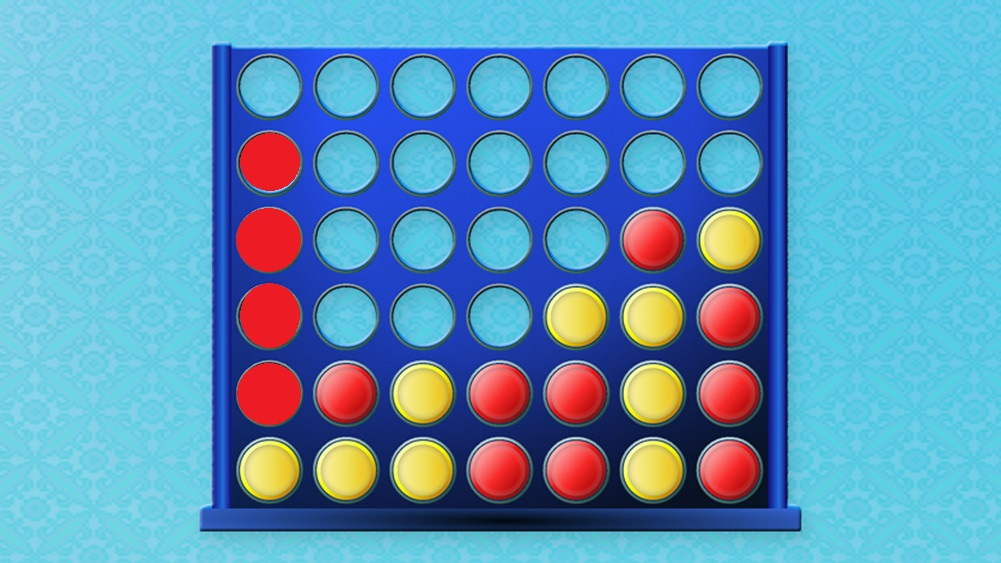
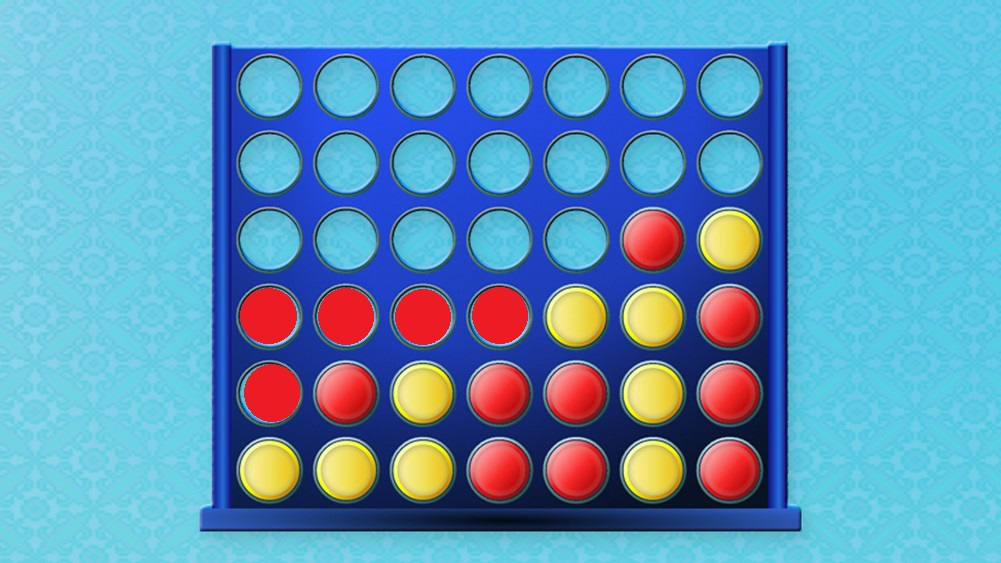
Horizontale und vertikale Gewinnererkennung

Changed region(s): [[0.2168, 0.2114, 0.5265, 0.6643], [0.2478, 0.7247, 0.3097, 0.7549], [0.2168, 0.6643, 0.2478, 0.7247]]

diff --git a/CV.py b/CV.py
@@ -1,5 +1,5 @@
 import cv2 as cv
-import sys
+import ctypes
 import numpy as np
 
 # connection to webcam
@@ -40,6 +40,7 @@ def main():
         for i in circles[0, :]:
             z=z+1
             center = (i[0], i[1])
+            radius = i[2]
 
             # detect color of center and add them to array
             color = img[(center[1], center[0])]
@@ -60,157 +61,116 @@ def main():
             my_variable_array.append(myvariable)
 
             # draw circle center in pink
-            #cv.circle(img, center, 1, (255, 0, 255), 2)
+            # cv.circle(img, center, 1, (255, 0, 255), 2)
 
             # draw circle outline in pink
-            #radius = i[2]
-            #cv.circle(img, center, radius, (255, 0, 255), 3)
+            radius = i[2]
+            # cv.circle(img, center, radius, (255, 0, 255), 3)
 
         # sort array
         my_variable_array.sort(reverse=False)
         test = (split(my_variable_array, 6))
 
         # sort columns, one arrays for single column
+        # colum1
         test[0].sort(key=lambda x: x[1])
         spalte1 = test[0]
+        # column2
         test[1].sort(key=lambda x: x[1])
         spalte2 = test[1]
+        # column3
         test[2].sort(key=lambda x: x[1])
         spalte3 = test[2]
+        # column4
         test[3].sort(key=lambda x: x[1])
         spalte4 = test[3]
+        # column5
         test[4].sort(key=lambda x: x[1])
         spalte5 = test[4]
+        # column 6
         test[5].sort(key=lambda x: x[1])
         spalte6 = test[5]
+        # column 7
         test[6].sort(key=lambda x: x[1])
         spalte7 = test[6]
+
 
         #where is a free spot
         #column 1
         print("Spalte 1:", spalte1)
-        for myvariable in spalte1:
-            if myvariable[2] == "Hintergrund":
-                last = myvariable
-            else:
-                print("Letzte freie Stelle in Spalte 1:", last)
-                # draw circle center
-                center = (last[0], last[1])
-                cv.circle(img, center, 1, (0, 0, 0), 2)
-                # draw circle outline
-                radius = i[2]
-                cv.circle(img, center, radius, (0, 0, 0), 3)
-                break
-
+        lastfree("1", spalte1, img, radius)
         # column 2
         print("Spalte 2:", spalte2)
-        for myvariable in spalte2:
-            if myvariable[2] == "Hintergrund":
-                last = myvariable
-            else:
-                print("Letzte freie Stelle in Spalte 2:", last)
-                # draw circle center
-                center = (last[0], last[1])
-                cv.circle(img, center, 1, (0, 0, 0), 2)
-                # draw circle outline
-                radius = i[2]
-                cv.circle(img, center, radius, (0, 0, 0), 3)
-                break
-
+        lastfree("2", spalte2, img, radius)
         # column 3
         print("Spalte 3:", spalte3)
-        for myvariable in spalte3:
-            if myvariable[2] == "Hintergrund":
-                last = myvariable
-            else:
-                print("Letzte freie Stelle in Spalte 3:", last)
-                # draw circle center
-                center = (last[0], last[1])
-                cv.circle(img, center, 1, (0, 0, 0), 2)
-                # draw circle outline
-                radius = i[2]
-                cv.circle(img, center, radius, (0, 0, 0), 3)
-                break
-
+        lastfree("3", spalte3, img, radius)
         # column 4
         print("Spalte 4:", spalte4)
-        for myvariable in spalte4:
-            if myvariable[2] == "Hintergrund":
-                last = myvariable
-            else:
-                print("Letzte freie Stelle in Spalte 4:", last)
-                # draw circle center
-                center = (last[0], last[1])
-                cv.circle(img, center, 1, (0, 0, 0), 2)
-                # draw circle outline
-                radius = i[2]
-                cv.circle(img, center, radius, (0, 0, 0), 3)
-                break
-
+        lastfree("4", spalte4, img, radius)
         # column 5
         print("Spalte 5:", spalte5)
-        for myvariable in spalte5:
-            if myvariable[2] == "Hintergrund":
-                last = myvariable
-            else:
-                print("Letzte freie Stelle in Spalte 5:", last)
-                # draw circle center
-                center = (last[0], last[1])
-                cv.circle(img, center, 1, (0, 0, 0), 2)
-                # draw circle outline
-                radius = i[2]
-                cv.circle(img, center, radius, (0, 0, 0), 3)
-                break
-
+        lastfree("5", spalte5, img, radius)
         # column 6
         print("Spalte 6:", spalte6)
-        for myvariable in spalte6:
-            if myvariable[2] == "Hintergrund":
-                last = myvariable
-            else:
-                print("Letzte freie Stelle in Spalte 6:", last)
-                # draw circle center
-                center = (last[0], last[1])
-                cv.circle(img, center, 1, (0, 0, 0), 2)
-                # draw circle outline
-                radius = i[2]
-                cv.circle(img, center, radius, (0, 0, 0), 3)
-                break
-
+        lastfree("6", spalte6, img, radius)
         # column 7
         print("Spalte 7:", spalte7)
-        for myvariable in spalte7:
-            if myvariable[2] == "Hintergrund":
-                last = myvariable
-            else:
-                print("Letzte freie Stelle in Spalte 7:", last)
-                # draw circle center
-                center = (last[0], last[1])
-                cv.circle(img, center, 1, (0, 0, 0), 2)
-                # draw circle outline
-                radius = i[2]
-                cv.circle(img, center, radius, (0, 0, 0), 3)
-                break
+        lastfree("7", spalte7, img, radius)
+
+        # is there a winner
+        winnery = False
+        # vertical
+        # column 1
+        if winnery == False:
+            winnery = vertwinner(spalte1, "1")
+        # column 2
+        if winnery == False:
+            winnery = vertwinner(spalte2, "2")
+        # column 3
+        if winnery == False:
+            winnery = vertwinner(spalte3, "3")
+        # column 4
+        if winnery == False:
+            winnery = vertwinner(spalte4, "4")
+        # column 5
+        if winnery == False:
+            winnery = vertwinner(spalte5, "5")
+        # column 6
+        if winnery == False:
+            winnery = vertwinner(spalte6, "6")
+        # column 7
+        if winnery == False:
+            winnery = vertwinner(spalte7, "7")
+
+        # horizontal
+        if winnery == False:
+            winnery = horwinner(test)
+
+        # diagonal
 
 
         # print results
-        #print(my_variable_array)
-        print("Anzahl rote Steine:", zr)
-        print("Anzahl gelbe Steine:", zg)
+        # print(my_variable_array)
+        # print("Anzahl rote Steine:", zr)
+        # print("Anzahl gelbe Steine:", zg)
+        print("1",winnery)
+        # winner?
+        if winnery == False:
+            # who is next if red started
+            if start == "red":
+                if zr > zg:
+                    print("Gelb ist dran!")
+                else:
+                    print("Rot ist dran!")
 
-        # who is next if red started
-        if start == "red":
-            if zr > zg:
-                print("Gelb ist dran!")
-            else:
-                print("Rot ist dran!")
+            # who is next if yellow started
+            if start == "yellow":
+                if zg > zr:
+                    print("Rot ist dran!")
+                else:
+                    print("Gelb ist dran!")
 
-        # who is next if yellow started
-        if start == "yellow":
-            if zg > zr:
-                print("Rot ist dran!")
-            else:
-                print("Gelb ist dran!")
 
     # show image and detected circles
     cv.imshow("Vier Gewinnt", img)
@@ -219,6 +179,84 @@ def main():
     return 0
 
 
+# last free function
+def lastfree(z, spalte, img, radius):
+    for myvariable in spalte:
+        if myvariable[2] == "Hintergrund":
+            last = myvariable
+        else:
+            print("Letzte freie Stelle in Spalte", z, ":", last)
+            # draw circle center
+            center = (last[0], last[1])
+            cv.circle(img, center, 1, (0, 0, 0), 2)
+            # draw circle outline
+            cv.circle(img, center, radius, (0, 0, 0), 3)
+            break
+    return
+
+
+# vertical winner function
+def vertwinner(spalte, z):
+    rot = 0
+    gelb = 0
+    winnery = False
+    for myvariable in spalte:
+        if myvariable[2] == "Rot":
+            rot = rot + 1
+            if rot == 4:
+                print("Rot hat in Spalte", z, "gewonnen!")
+                winnery = True
+                return winnery
+        else:
+            rot = 0
+
+    for myvariable in spalte:
+        if myvariable[2] == "Gelb":
+            gelb = gelb + 1
+            if gelb == 4:
+                print("Gelb hat in Spalte", z, "gewonnen!")
+                winnery = True
+                return winnery
+        else:
+            gelb = 0
+    return winnery
+
+
+# horizontal winner function
+def horwinner(test):
+    rot = 0
+    gelb = 0
+    winnery = False
+    for y in range(0, 6):
+        for x in range (0, 7):
+            spalte = test[x]
+            element = spalte[y]
+            if element[2] == "Rot":
+                rot = rot+1
+                if rot == 4:
+                    print("Rot hat in Zeile", x, "gewonnen")
+                    winnery = True
+                    return winnery
+            else:
+                rot = 0
+
+    for y in range(0, ):
+        for x in range (0, 7):
+            spalte = test[x]
+            element = spalte[y]
+            if element[2] == "Gelb":
+                gelb = gelb+1
+                if rot == 4:
+                    print("Gelb hat in Zeile", x, "gewonnen")
+                    winnery = True
+                    return winnery
+            else:
+                gelb = 0
+    else:
+        return winnery
+
+
+# split array function
 def split(arr, size):
     arrs = []
     while len(arr) > size:
@@ -229,6 +267,6 @@ def split(arr, size):
     return arrs
 
 
-# wtf?!
+# main function
 if __name__ == "__main__":
     main()
